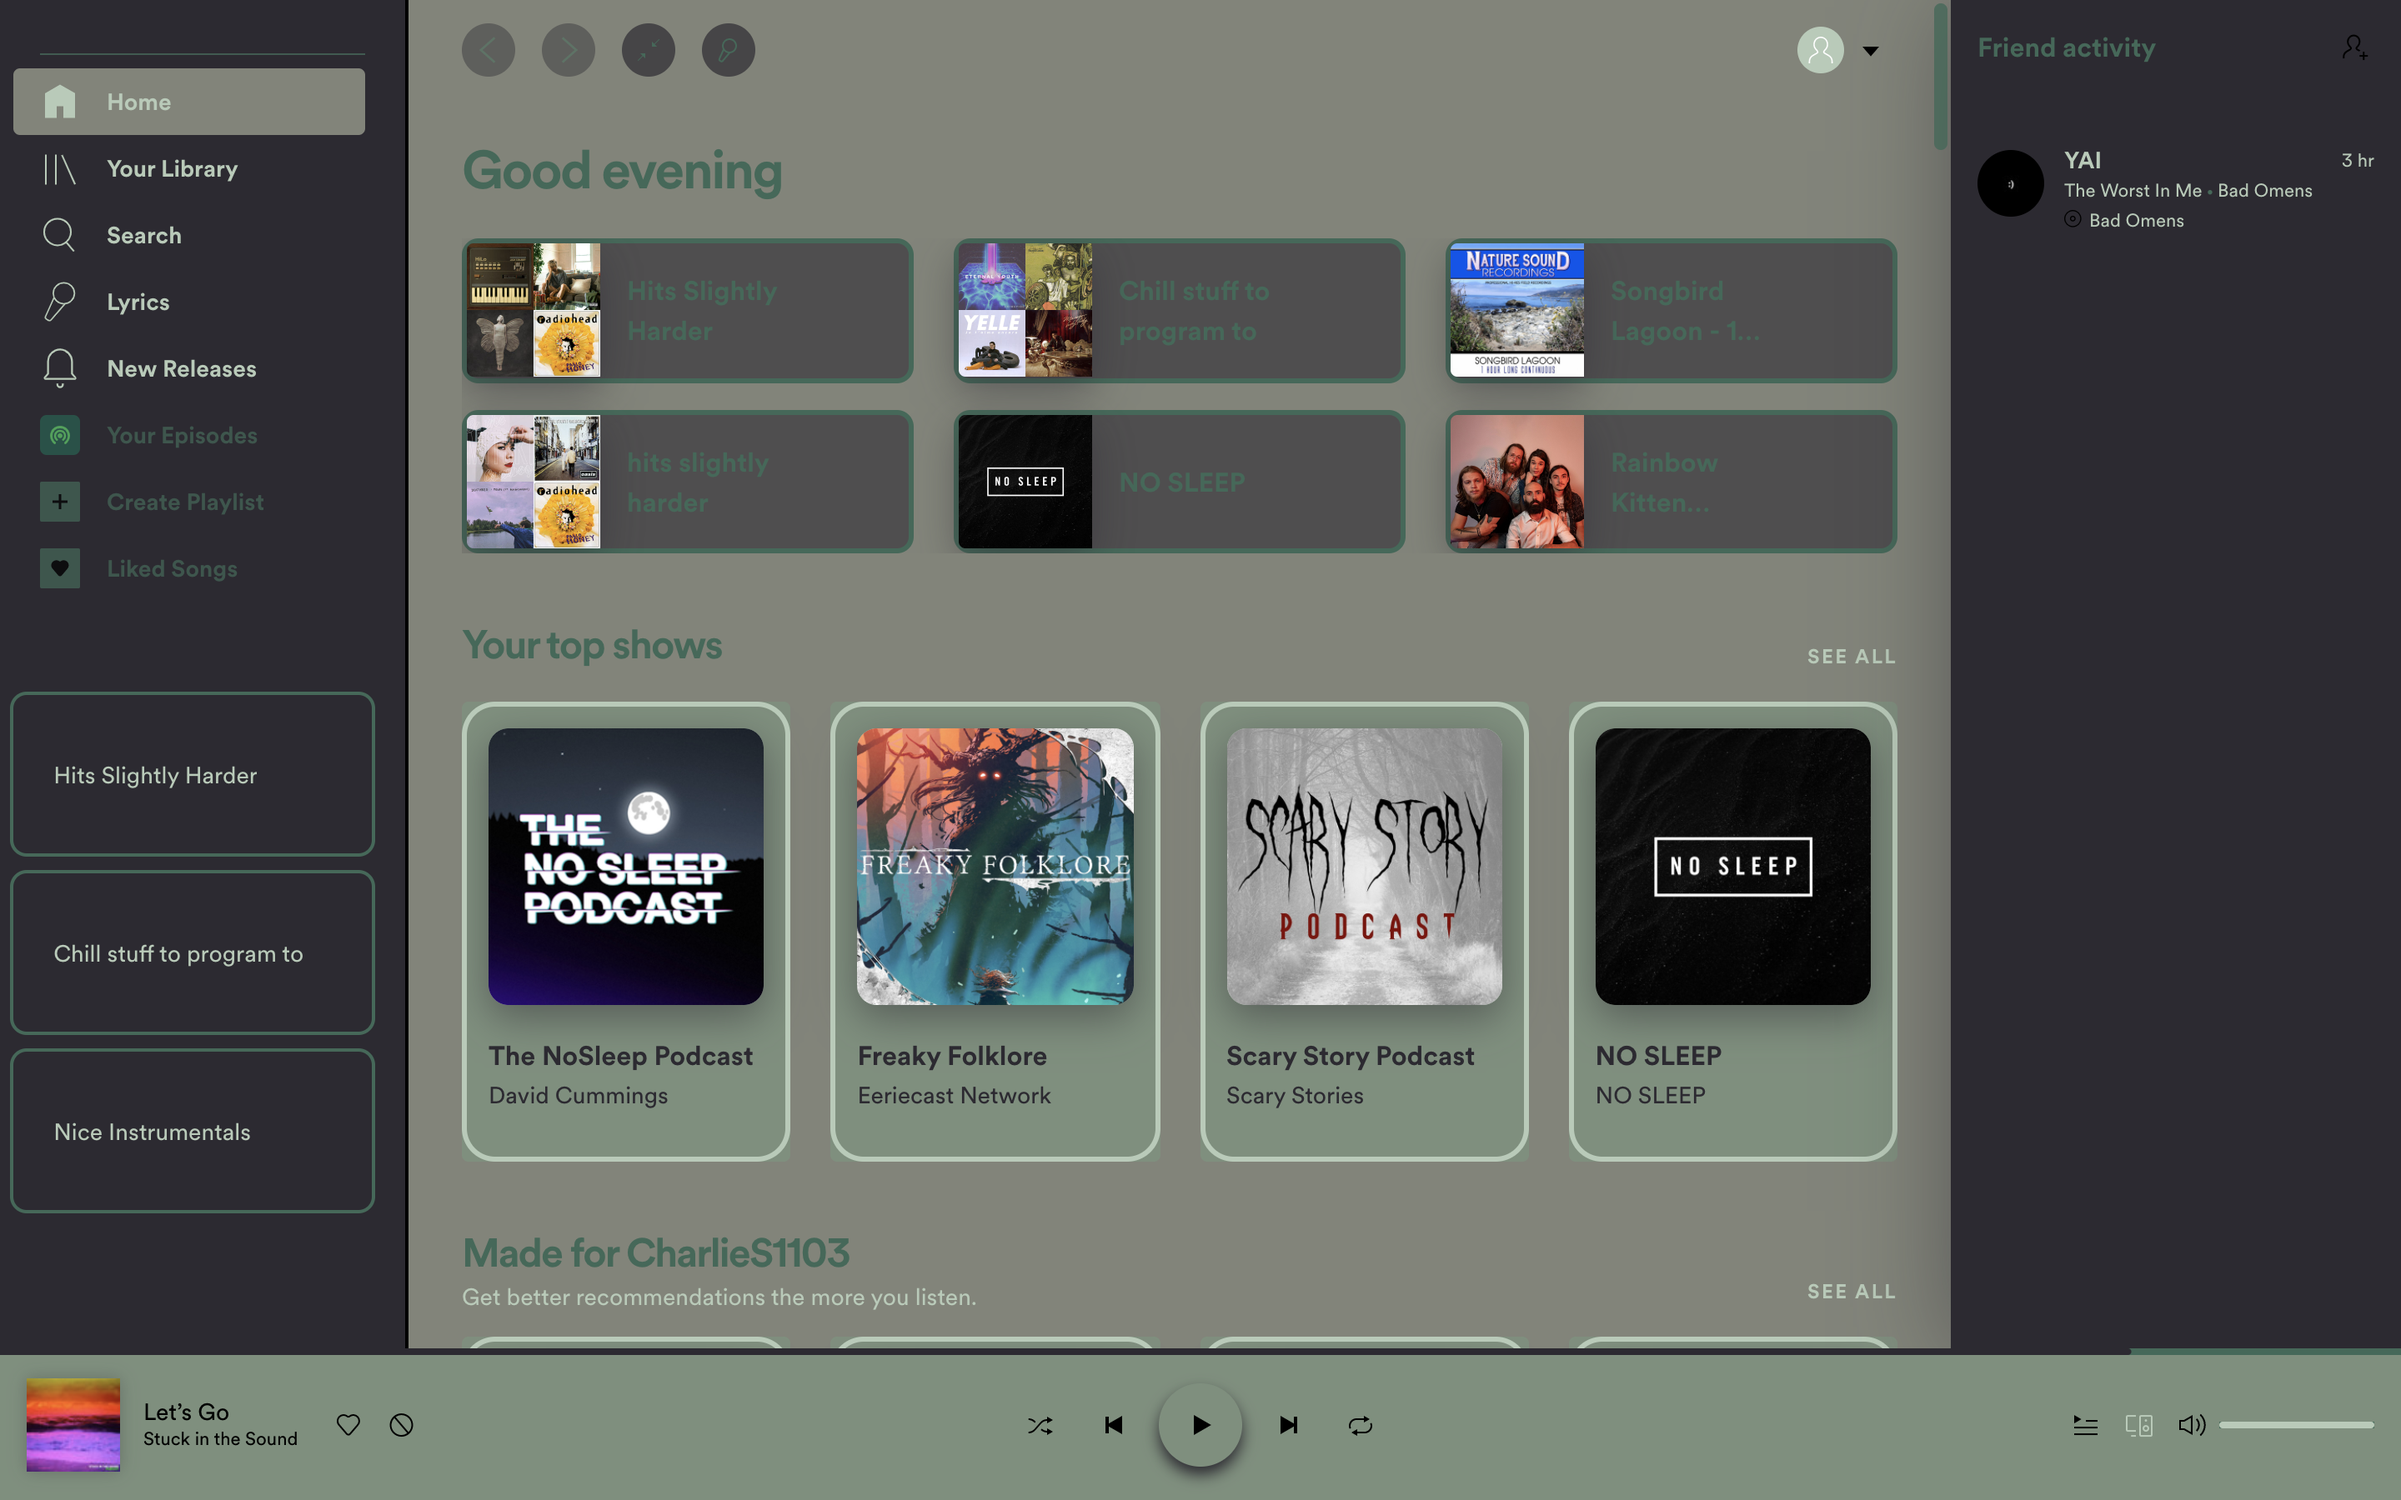
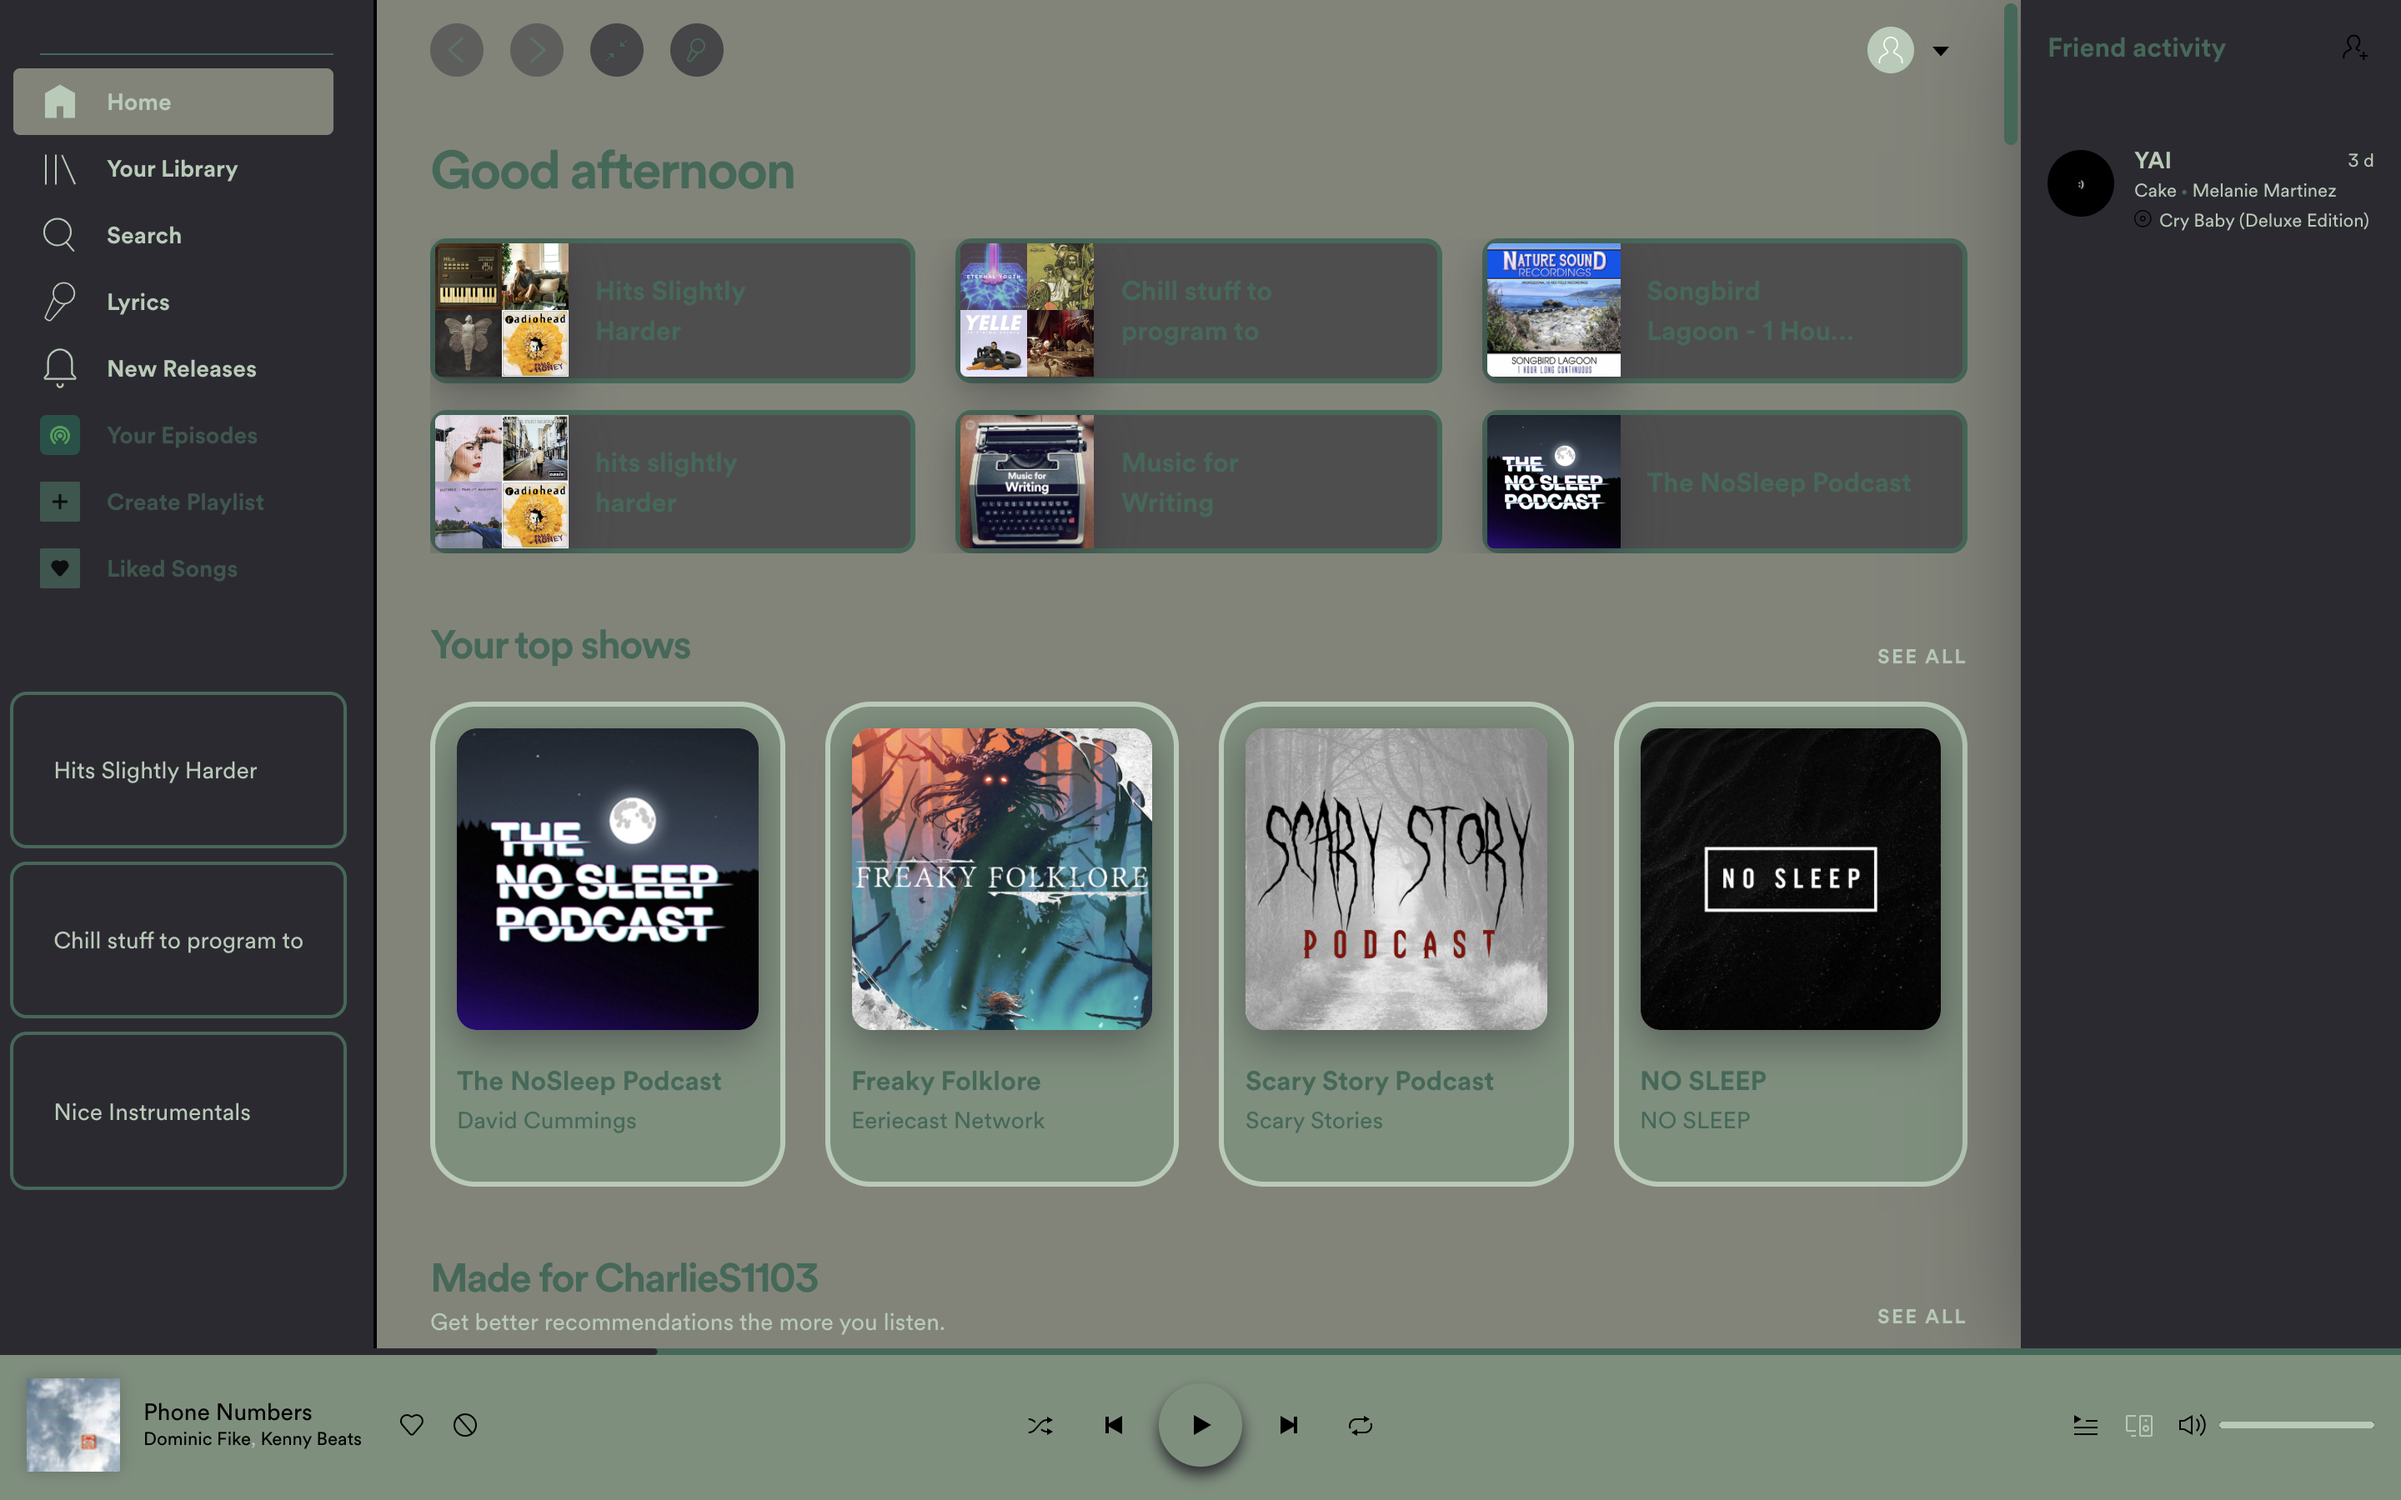
Update
Changed some ui things around, such as border radius of cards and fixed a glitch with the create playlist buttom. Made the rootlist divider stand out more as well
Updated images
Updated readme.md
fixed unreadable text

diff --git a/Dreary/user.css b/Dreary/user.css
@@ -3,11 +3,9 @@
     display: none;
     visibility: hidden !important;
 }
-
-.main-rootlist-rootlistDivider {
-    background-color: rgba(var(--spice-rgb-button-disabled), .8)
+.main-rootlist-rootlistDivider{
+    background-color: var(--spice-text) !important;
 }
-
 input {
     background-color: unset !important;
     border-bottom: solid 1px var(--spice-text) !important;
@@ -152,7 +150,7 @@ span.artist-artistVerifiedBadge-badge svg:nth-child(1) {
 
 .os-theme-spotify.os-host-transition>.os-scrollbar-vertical>.os-scrollbar-track>.os-scrollbar-handle {
     border-radius: 4px;
-    background-color: rgba(var(--spice-rgb-button-disabled), .8);
+    background-color: var(--spice-text);
 }
 
 /* Hide Profile Options in Nav Bar */
@@ -434,15 +432,23 @@ svg[Attributes Style] {
     background-color: rgba(var(--spice-rgb-selected-row), 0.6) !important;
     border: solid 3px var(--spice-text);
     border-radius: 10px;
-    padding-bottom: 80.79px;
+    padding-bottom: 80.7px;
     transition: 500ms;
 }
 
 .main-card-card .main-card-cardLink {
     border: solid 3px;
-    border-radius: 20px;
     transition:500ms;
+    border-radius:27px;
+    
+}
+.main-card-card{
+    border-radius:27px!important;
 }
 .view-homeShortcutsGrid-shortcut:hover,.main-card-card .main-card-cardLink:hover {
     border-color:var(--spice-button);
 }
+.main-createPlaylistButton-button {
+    padding: 0 16px !important;
+    }
+   

diff --git a/Dreary/README.md b/Dreary/README.md
@@ -20,8 +20,11 @@
 ### RainforestCafe
 ![Rainforest Cafe Screenshot](rainforestcafe.png)
 
+### Mono
+![Mono Screenshot](mono.png)
+
 ##Important
-Sidebar Config option must be enabled for theme to work properly, you can use it without, however some features may not be available.
+Sidebar Config option must be enabled for theme to work properly, you can use it without, however some features may not be available, such as edits to the sidebar.
 
 
 ## More
